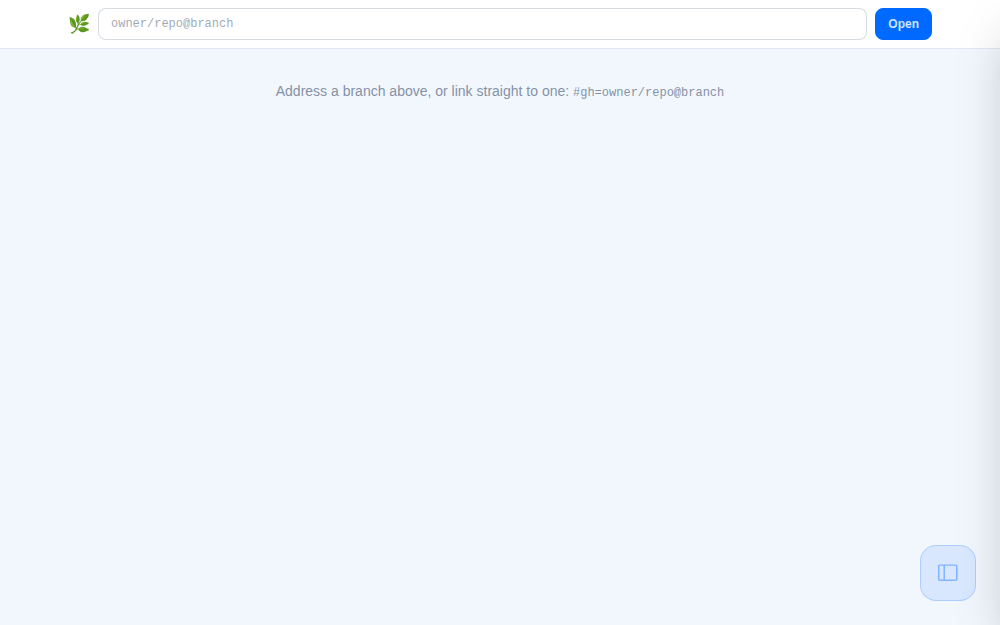
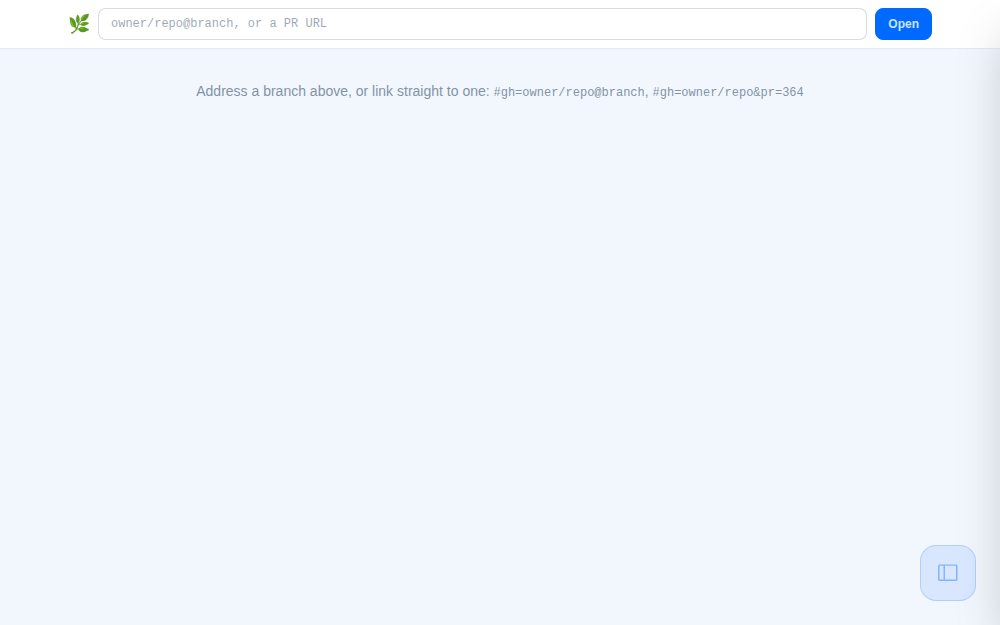
The caption closes with 🌿 beside 🧭, and the branch thumb catches up
The conventions already said both belong on a working branch and the caption
skill emitted only 🧭, so in practice every reply handed over the GitHub link
and not the page that renders the guide and the file list together. Now that
the branch page takes &pr=<n>, the two pointers name the same PR and differ
only in what they open: 🌿 reads it, 🧭 operates it and is the tokenless
fallback.

Also the per-session thumbnail refresh for pages/branch.html.

Claude-Session: https://claude.ai/code/session_01XG5Lhhh7d3GUtorKu1TBFY

Changed region(s): [[0.186, 0.1216, 0.806, 0.152], [0.248, 0.0304, 0.341, 0.0608]]

diff --git a/.claude/skills/web-tools/SURFACING.md b/.claude/skills/web-tools/SURFACING.md
@@ -58,7 +58,7 @@ This prose is the authoritative statement of the primitives; [`docs/surfacing.js
   The page is deployed on the hub's main, and it reads any `owner/repo@branch` through the viewer's token, so the address above is canonical for every repo's branches; the tossed fallback this entry used to carry described the window before it merged and is retired. For browsing rather than linking, show-repo's Activity view (`…/show-repo/show-repo.html?view=activity`) opens the same renderer as a full-viewport takeover, swipeable through the open list; 🌿 remains the shareable single-branch address.
 
   🌿 and 🧭 answer different questions and both belong on a working branch: 🌿 is where you *read* the branch, 🧭 is where you *merge* it.
-* **Guide pointer 🧭:** mark the branch's guide PR, or a legacy branch-guide file, with 🧭. A reply may close with `🧭 [PR #N](…) (body synced)`. The parenthetical is a claim about this reply, not about the PR: write `(body synced)` only when this turn rewrote the guide region, and `(body not synced)` otherwise. It exists so a reader can tell, without opening the PR, whether its body describes the current tip. Never carry `(body synced)` forward from an earlier reply.
+* **Guide pointer 🧭:** mark the branch's guide PR, or a legacy branch-guide file, with 🧭. A reply may close with `🧭 [PR #N](…) (body synced)`, and where the branch has a PR the closer carries 🌿 beside it: the two name one PR and open different readings of it, the branch page rendering the guide and the file list together, GitHub being where the PR is operated and the tokenless fallback. The parenthetical is a claim about this reply, not about the PR: write `(body synced)` only when this turn rewrote the guide region, and `(body not synced)` otherwise. It exists so a reader can tell, without opening the PR, whether its body describes the current tip. Never carry `(body synced)` forward from an earlier reply.
 * **Task marker 🎫:** where the repo uses [TRACKER.md](https://github.com/mehrlander/web-tools/blob/main/docs/TRACKER.md), surface a task as `🎫 [title](<task blob url>)`. Do not show the filename id; 🎫 plus title is the reader's handle.
 * **Surfacing caption:** end a file-modifying turn with a uniform bulleted file list. Filenames stay plain and link words are tappable:
 

diff --git a/docs/SURFACING.md b/docs/SURFACING.md
@@ -58,7 +58,7 @@ This prose is the authoritative statement of the primitives; [`docs/surfacing.js
   The page is deployed on the hub's main, and it reads any `owner/repo@branch` through the viewer's token, so the address above is canonical for every repo's branches; the tossed fallback this entry used to carry described the window before it merged and is retired. For browsing rather than linking, show-repo's Activity view (`…/show-repo/show-repo.html?view=activity`) opens the same renderer as a full-viewport takeover, swipeable through the open list; 🌿 remains the shareable single-branch address.
 
   🌿 and 🧭 answer different questions and both belong on a working branch: 🌿 is where you *read* the branch, 🧭 is where you *merge* it.
-* **Guide pointer 🧭:** mark the branch's guide PR, or a legacy branch-guide file, with 🧭. A reply may close with `🧭 [PR #N](…) (body synced)`. The parenthetical is a claim about this reply, not about the PR: write `(body synced)` only when this turn rewrote the guide region, and `(body not synced)` otherwise. It exists so a reader can tell, without opening the PR, whether its body describes the current tip. Never carry `(body synced)` forward from an earlier reply.
+* **Guide pointer 🧭:** mark the branch's guide PR, or a legacy branch-guide file, with 🧭. A reply may close with `🧭 [PR #N](…) (body synced)`, and where the branch has a PR the closer carries 🌿 beside it: the two name one PR and open different readings of it, the branch page rendering the guide and the file list together, GitHub being where the PR is operated and the tokenless fallback. The parenthetical is a claim about this reply, not about the PR: write `(body synced)` only when this turn rewrote the guide region, and `(body not synced)` otherwise. It exists so a reader can tell, without opening the PR, whether its body describes the current tip. Never carry `(body synced)` forward from an earlier reply.
 * **Task marker 🎫:** where the repo uses [TRACKER.md](https://github.com/mehrlander/web-tools/blob/main/docs/TRACKER.md), surface a task as `🎫 [title](<task blob url>)`. Do not show the filename id; 🎫 plus title is the reader's handle.
 * **Surfacing caption:** end a file-modifying turn with a uniform bulleted file list. Filenames stay plain and link words are tappable:
 

diff --git a/.claude/skills/caption/SKILL.md b/.claude/skills/caption/SKILL.md
@@ -189,8 +189,25 @@ fallback.
 
 ## Tail
 
-When the branch has a guide PR (or a branch-guide file), close with the
-pointer: `🧭 [PR #N](<url>)`.
+When the branch has a guide PR, close with **both** pointers, 🌿 first:
+
+```
+🌿 [branch](https://mehrlander.github.io/web-tools/pages/branch.html#gh=<owner>/<repo>&pr=<n>) · 🧭 [PR #N](<url>)
+```
+
+They name the same PR and are not redundant, because they open different
+readings of it:
+
+- **🌿 the branch page** renders the guide body *and* the derived file list as
+  diff cards, with the body's file links re-aimed at what can show each file.
+  One tap, the whole picture, current at open time. Token-gated like every
+  `#gh=` address, so it may fail in an in-app browser.
+- **🧭 GitHub** is where the PR is *operated*: the Files tab, comments, checks,
+  the merge button. It is also the tokenless fallback when 🌿 will not resolve.
+
+With no PR, 🌿 still works on the branch alone
+(`#gh=<owner>/<repo>@<branch>`) and 🧭 is omitted. Drop 🌿 in a repo whose
+branches the viewer's token cannot read.
 
 ## The recap form
 
